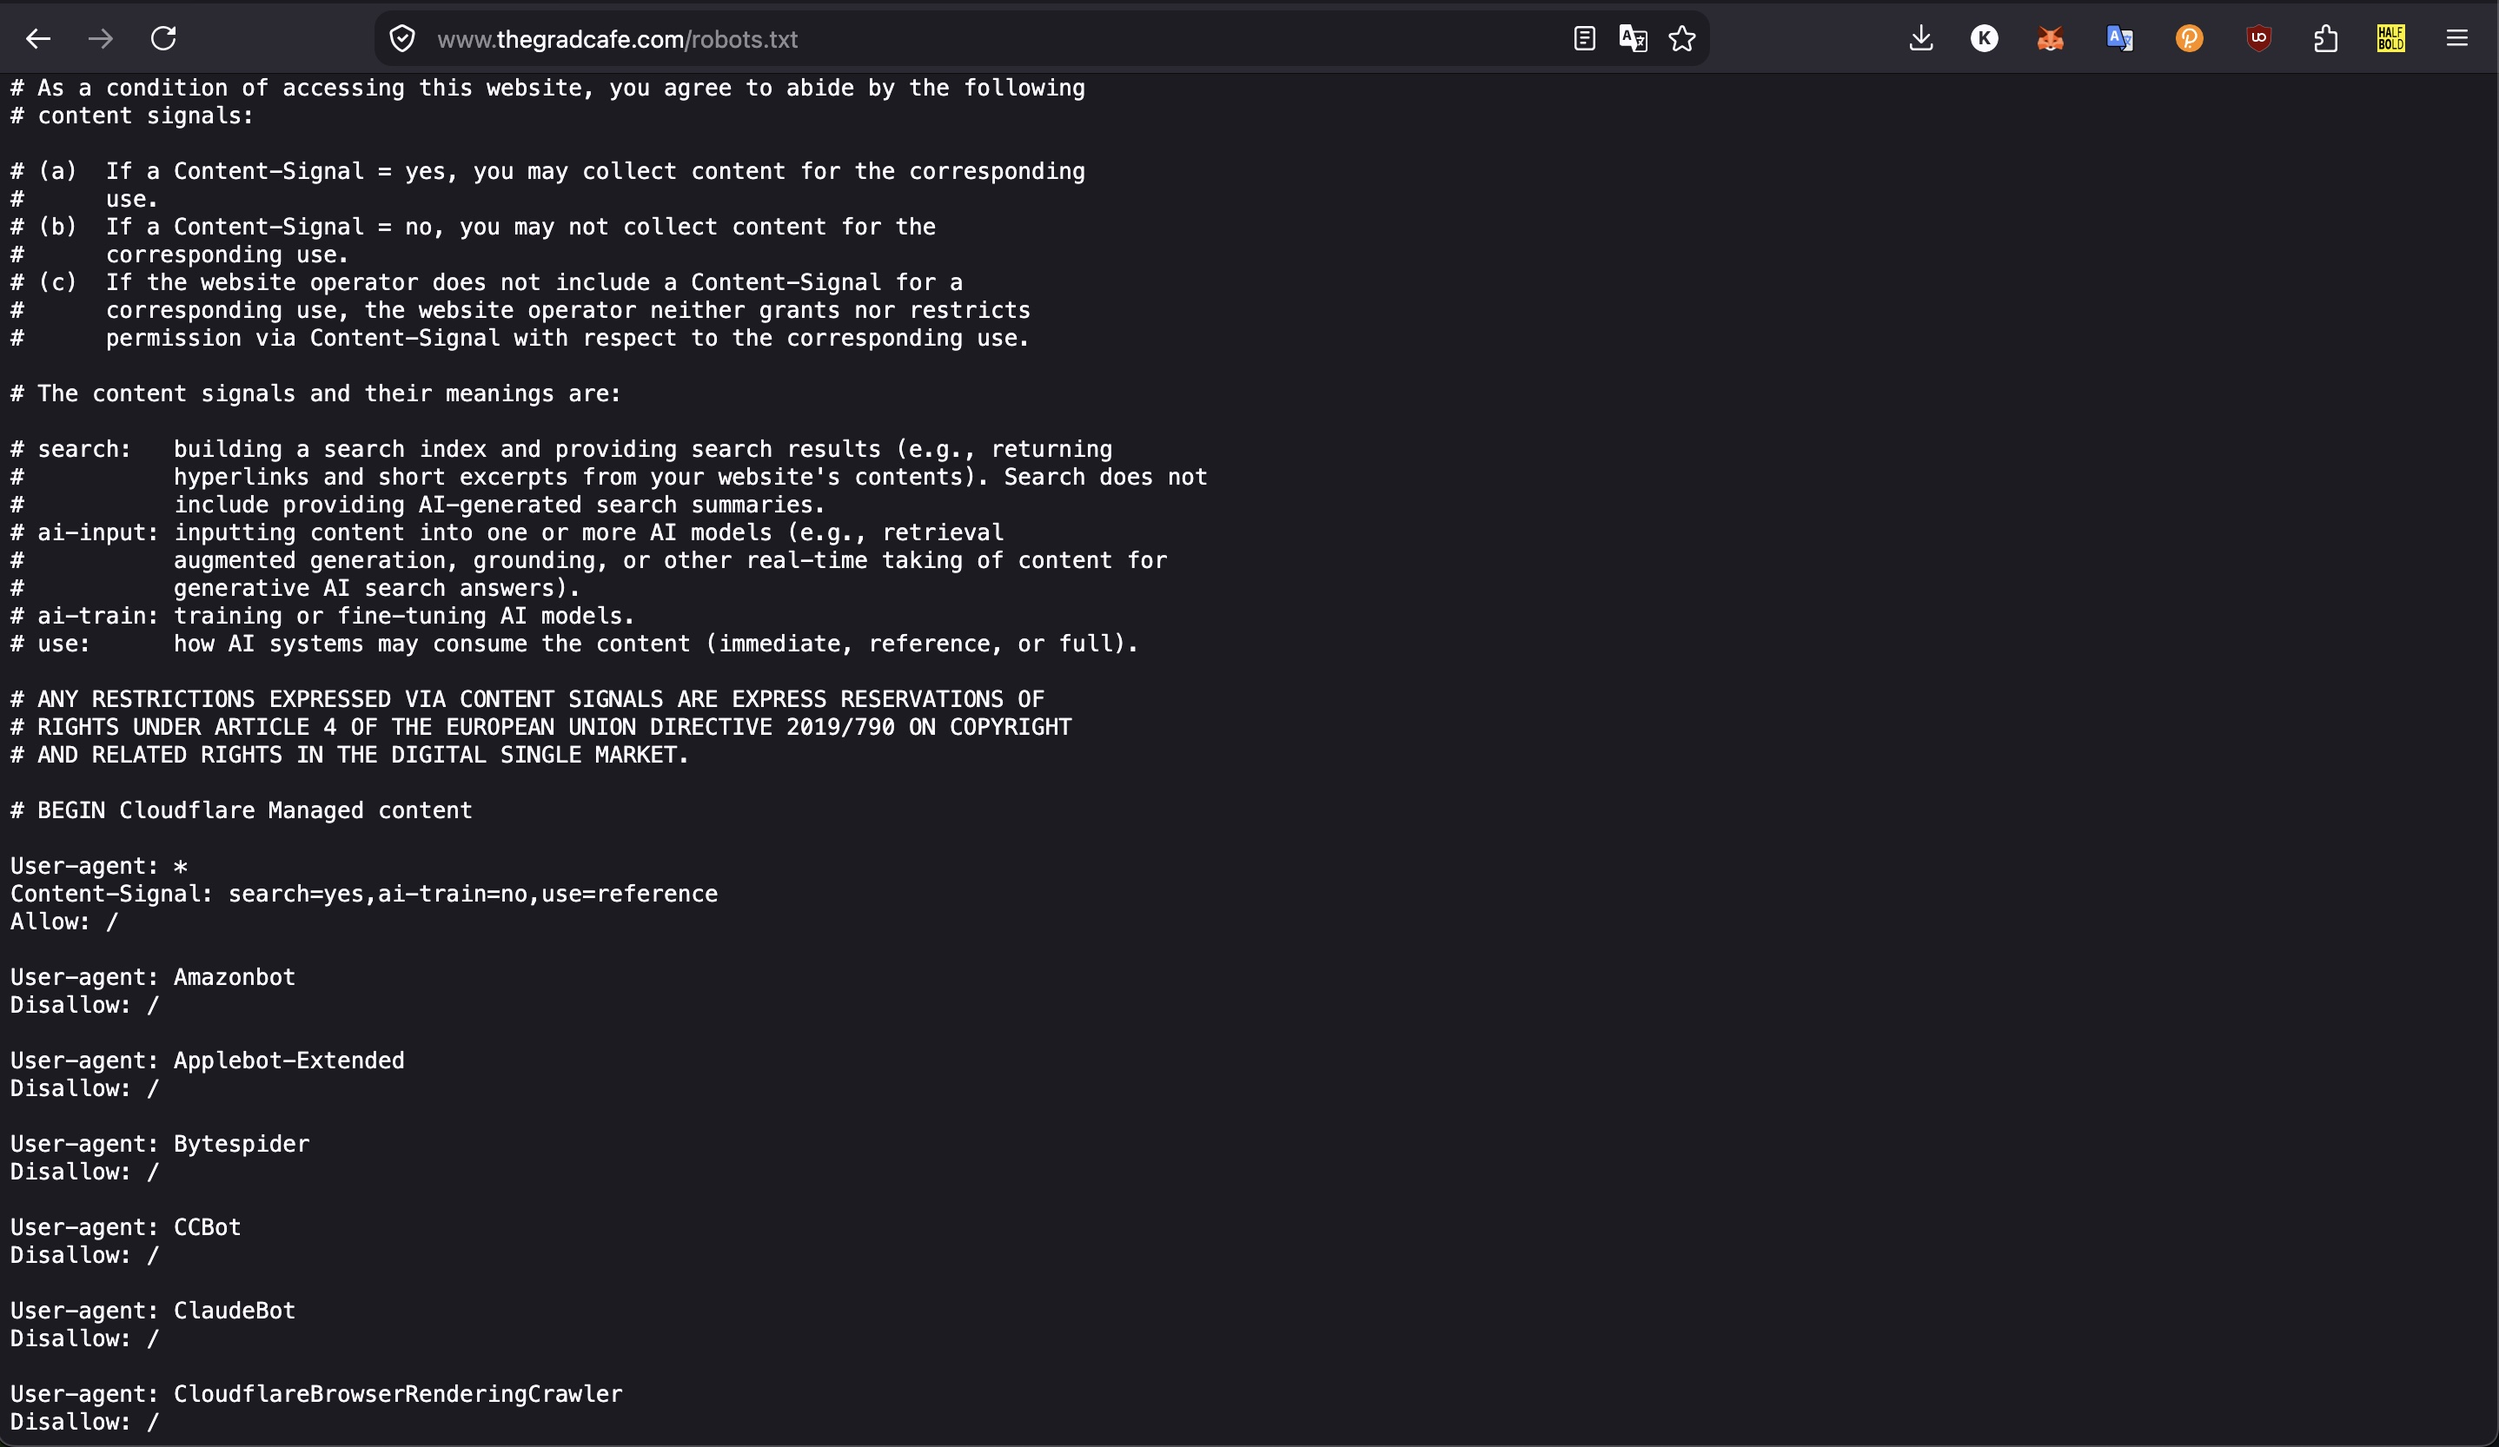
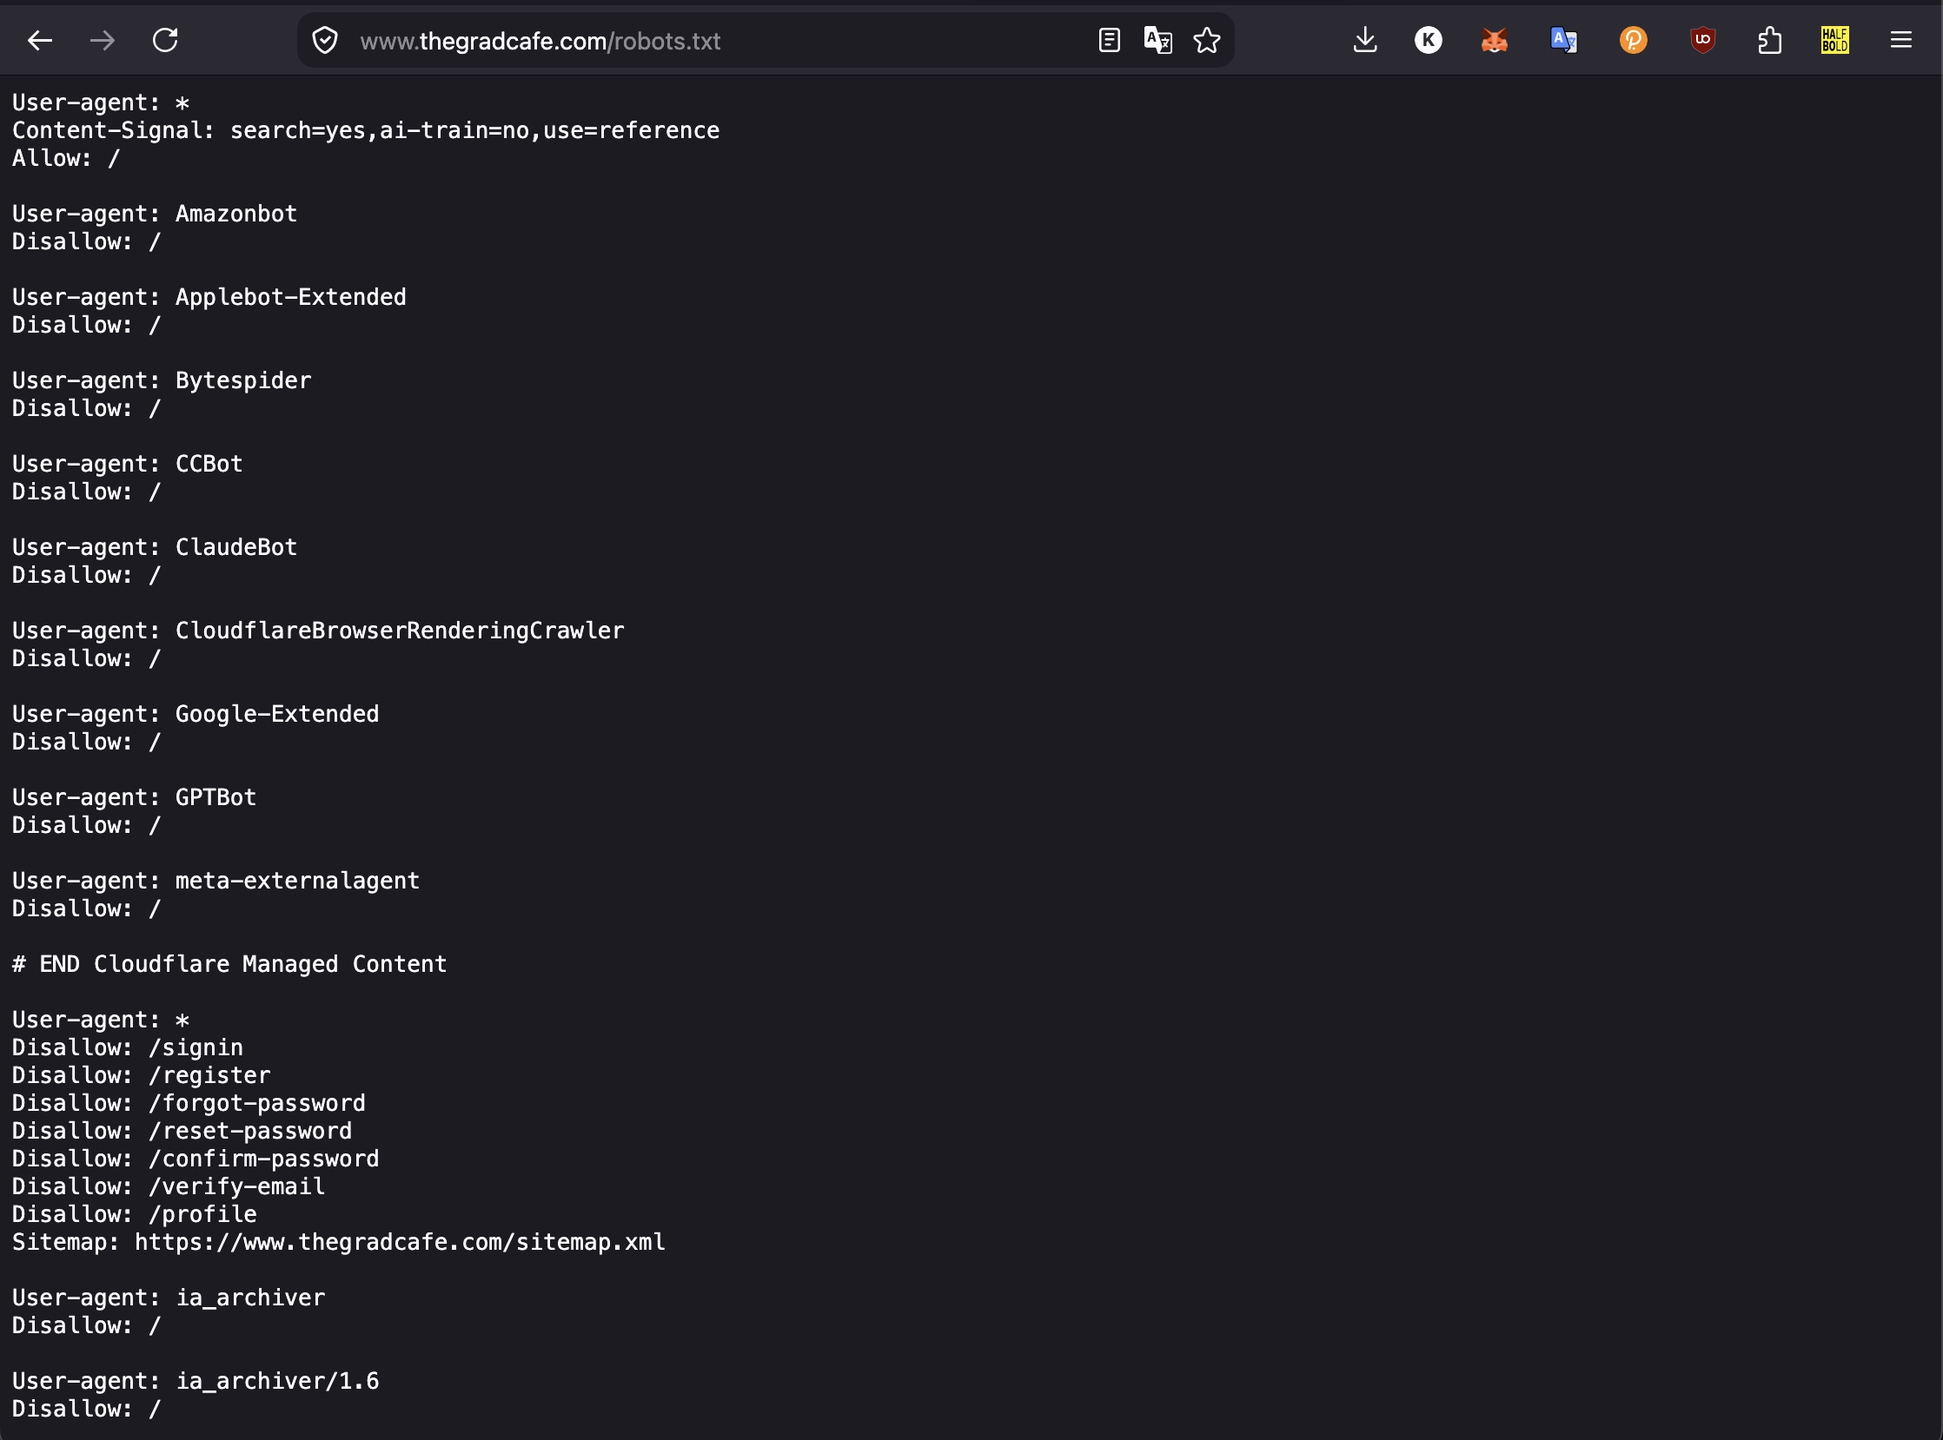
Export png to jpg and make Readme cleaner.

diff --git a/module_2/README.md b/module_2/README.md
@@ -34,39 +34,25 @@ Requires Python 3.10 or higher.
 
 ## robots.txt compliance
 
-`https://www.thegradcafe.com/robots.txt` was checked before scraping; `screenshot.jpg` is the
-evidence.
+`https://www.thegradcafe.com/robots.txt` was checked before scraping; see `screenshot.jpg` for evidence.
 
-The `User-agent: *` rules are `Allow: /`, followed by a block disallowing only account pages:
-`/signin`, `/register`, `/forgot-password`, `/reset-password`, `/confirm-password`,
-`/verify-email` and `/profile`. This scraper reads only `/survey`, the public paginated
-results listing, and records the `/result/<id>` links it finds there. Neither path is
-disallowed, so the scrape is permitted.
-
-There is no `Crawl-delay` directive, but the scraper still waits one second between pages. It
-stops on a 400 or 403 response, and never signs in, solves a CAPTCHA, or requests a
-disallowed path.
+The `User-agent: *` rules are `Allow: /`, followed by a block disallowing only account pages: `/signin`, `/register`, `/forgot-password`, `/reset-password`, `/confirm-password`, `/verify-email` and `/profile`. This scraper reads only `/survey`, the public paginated results listing, and records the `/result/<id>` links it finds there. Neither path is disallowed, so the scrape is permitted.
 
 ## Approach
 
-**Scraping** is a hybrid workflow. `urllib.parse.urljoin` builds and resolves the page URLs,
-headless **Firefox + GeckoDriver** (resolved automatically by Selenium Manager) renders the
-JavaScript-loaded results table, and BeautifulSoup parses the rendered HTML. Pages use the
-`eager` load strategy followed by an explicit `WebDriverWait` for an applicant row, rather
-than a fixed sleep.
+**Scraping the data (scrape.py)**
+The site blocks plain requests and builds its results table with JavaScript, so the scraper drives a headless Firefox browser (to keep it as lightweight as possible) and reads the finished page with BeautifulSoup. I found this approach to work better than the recommendation to manually bypass verification in an open browser, and though mechanical soup and its stateful browser were attempted -it hit the 403 status error. 
 
-Records are appended after each page, and every page's `next_url` is logged to
-`data/scraped_pages.jsonl`, which is what makes a run resumable. A driver timeout quits and
-restarts the browser; a page that renders no rows is reloaded rather than mistaken for the end
-of the results.
+Every page is saved before the next is fetched, and the link to the next page is written to scraped_pages.json, so a new run continues from where the last one stopped instead of starting over. If the browser stalls it is quit and restarted, and a page that comes back empty is reloaded
+rather than treated as the end of the results - I found this to be especially helpful as the headless browser would, at times, be too slow and timeout - which is why the “eager” strategy was picked which does not wait for images to load in the headless browser.
 
-**Cleaning** joins the program and university into the single `program` string the
-standardizer expects, and splits `"Accepted on Jan 09"` into `status` and `decision_date`. The
-raw `status_raw` and `details_raw` fields are kept alongside the cleaned ones for
-traceability. Unavailable values are `null` throughout.
+**Cleaning the data (clean.py)**
+clean_data() reshapes each scraped record as per the output expected by the assignment. The program and university names are joined into the single "program" string the llm standardizer expects, and a status such as
+"Accepted on Jan 09" is split by _normalize_status() into "status" and "decision_date” so the acceptance or rejection date is its own field. The html was already cleaned by beautiful soup in the previous step (scrape.py).
 
-**Standardization** runs the provided `llm_hosting/app.py` model over every record. See
-[llm_hosting/README.md](llm_hosting/README.md) for the local additions.
+**Standardizing with the local LLM (llm_hosting/)**
+parallel_run.py was added beside it and calls the same
+_call_llm function, differing from the stock CLI in three ways. It deduplicates: the 31,640 rows contain only 12,540 distinct program strings, so each is standardized once and mapped back, cutting the model calls by 2.5x. It runs several worker processes, each loading its own copy of the model. And it caches every result to llm_cache.jsonl as it goes, so an interrupted run resumes instead of starting over, and refuses to write a partial output file. On Apple Silicon (my laptop configuration) it defaults to MPS (which gives a 2.5x boost over CPU) and I picked three workers. 
 
 ## Module repository structure
 
